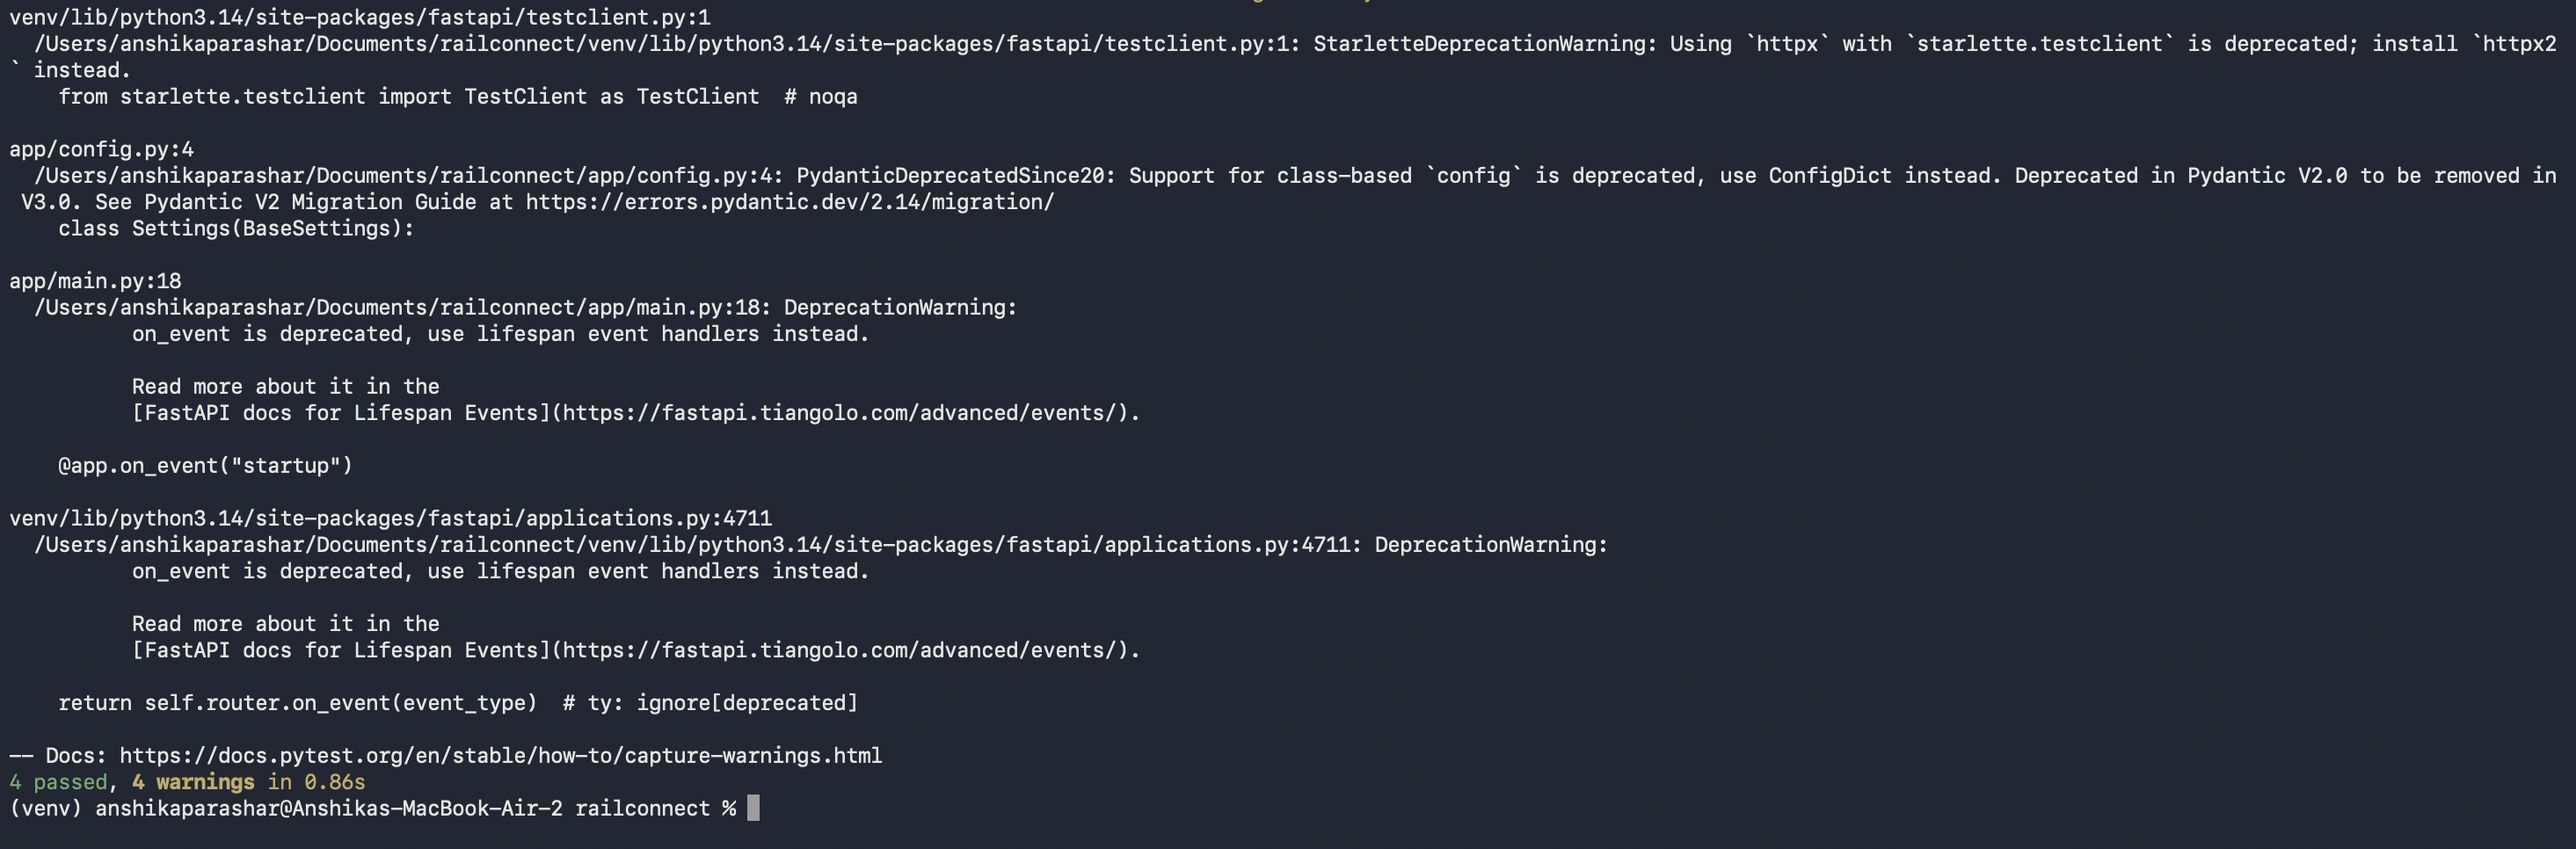
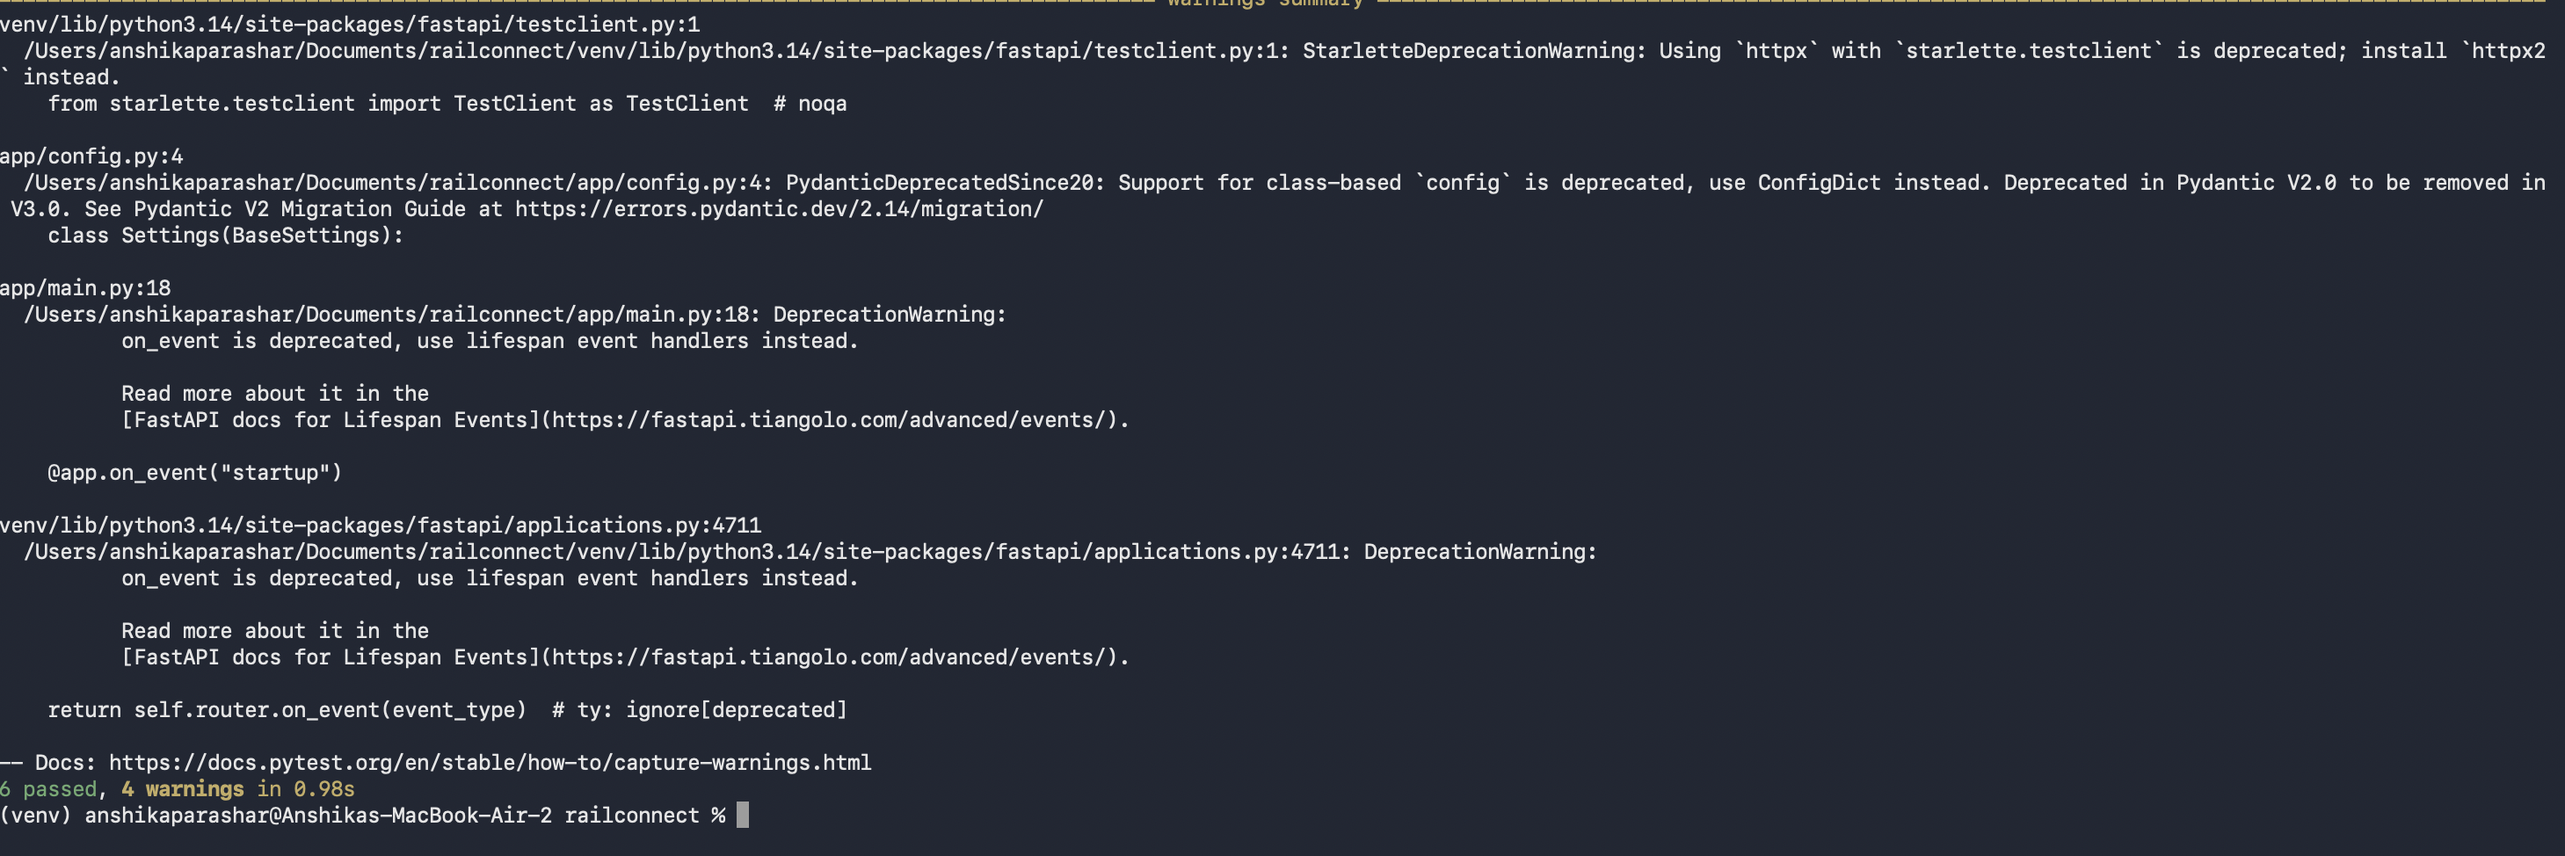
Make bookings concurrency-safe

diff --git a/app/bookings/router.py b/app/bookings/router.py
@@ -2,11 +2,12 @@ import random
 import string
 
 from fastapi import APIRouter, Depends, HTTPException
+from sqlalchemy import update
 from sqlmodel import Session, select
 
+from app.auth.dependencies import get_current_user
 from app.database import get_session
 from app.models import Booking, Train, User
-from app.auth.dependencies import get_current_user
 
 router = APIRouter(
     prefix="/bookings",
@@ -27,35 +28,29 @@ def create_booking(
     current_user: User = Depends(get_current_user),
     session: Session = Depends(get_session),
 ):
-    train = session.get(Train, train_id)
-
-    if not train:
-        raise HTTPException(
-            status_code=404,
-            detail="Train not found"
+    # Claim a seat with one conditional write. Competing updates are serialized
+    # by the database, so only a request that sees availability can claim a seat.
+    train = session.exec(
+        update(Train)
+        .where(
+            Train.id == train_id,
+            Train.is_active.is_(True),
+            Train.available_seats > 0,
         )
+        .values(available_seats=Train.available_seats - 1)
+        .returning(Train.total_seats, Train.available_seats, Train.fare)
+    ).first()
 
-    if not train.is_active:
-        raise HTTPException(
-            status_code=400,
-            detail="Train is inactive"
-        )
+    if train is None:
+        current_train = session.get(Train, train_id)
+        if current_train is None:
+            raise HTTPException(status_code=404, detail="Train not found")
+        if not current_train.is_active:
+            raise HTTPException(status_code=400, detail="Train is inactive")
+        raise HTTPException(status_code=400, detail="All seats are booked")
 
-    if train.available_seats <= 0:
-        raise HTTPException(
-            status_code=400,
-            detail="All seats are booked"
-        )
-
-    # Assign next seat number
-    seat_number = train.total_seats - train.available_seats + 1
-
-    # Reduce available seats
-    train.available_seats -= 1
-
+    seat_number = train.total_seats - train.available_seats
     pnr = generate_pnr()
-
-    # Make sure PNR is unique
     while session.exec(
         select(Booking).where(Booking.pnr == pnr)
     ).first():
@@ -64,18 +59,15 @@ def create_booking(
     booking = Booking(
         pnr=pnr,
         user_id=current_user.id,
-        train_id=train.id,
+        train_id=train_id,
         passenger_name=passenger_name,
         seat_number=seat_number,
         fare=train.fare,
         status="confirmed",
     )
-
     session.add(booking)
-    session.add(train)
     session.commit()
     session.refresh(booking)
-
     return booking
 
 
@@ -85,11 +77,8 @@ def get_my_bookings(
     session: Session = Depends(get_session),
 ):
     bookings = session.exec(
-        select(Booking).where(
-            Booking.user_id == current_user.id
-        )
+        select(Booking).where(Booking.user_id == current_user.id)
     ).all()
-
     return bookings
 
 
@@ -107,11 +96,7 @@ def get_booking(
     ).first()
 
     if not booking:
-        raise HTTPException(
-            status_code=404,
-            detail="Booking not found"
-        )
-
+        raise HTTPException(status_code=404, detail="Booking not found")
     return booking
 
 
@@ -121,38 +106,45 @@ def cancel_booking(
     current_user: User = Depends(get_current_user),
     session: Session = Depends(get_session),
 ):
-    booking = session.exec(
-        select(Booking).where(
+    cancelled = session.exec(
+        update(Booking)
+        .where(
             Booking.pnr == pnr,
-            Booking.user_id == current_user.id
+            Booking.user_id == current_user.id,
+            Booking.status == "confirmed",
         )
+        .values(status="cancelled")
+        .returning(Booking.train_id, Booking.seat_number)
     ).first()
 
-    if not booking:
-        raise HTTPException(
-            status_code=404,
-            detail="Booking not found"
+    if cancelled is None:
+        booking = session.exec(
+            select(Booking).where(
+                Booking.pnr == pnr,
+                Booking.user_id == current_user.id,
+            )
+        ).first()
+        if booking is None:
+            raise HTTPException(status_code=404, detail="Booking not found")
+        raise HTTPException(status_code=400, detail="Booking already cancelled")
+
+    restored = session.exec(
+        update(Train)
+        .where(
+            Train.id == cancelled.train_id,
+            Train.available_seats < Train.total_seats,
         )
+        .values(available_seats=Train.available_seats + 1)
+        .returning(Train.id)
+    ).first()
 
-    if booking.status == "cancelled":
-        raise HTTPException(
-            status_code=400,
-            detail="Booking already cancelled"
-        )
+    if restored is None:
+        session.rollback()
+        raise HTTPException(status_code=409, detail="Unable to restore the seat")
 
-    train = session.get(Train, booking.train_id)
-
-    if train:
-        train.available_seats += 1
-        session.add(train)
-
-    booking.status = "cancelled"
-
-    session.add(booking)
     session.commit()
-
     return {
         "message": "Booking cancelled successfully",
-        "pnr": booking.pnr,
-        "seat_number": booking.seat_number,
+        "pnr": pnr,
+        "seat_number": cancelled.seat_number,
     }

diff --git a/tests/test_bookings.py b/tests/test_bookings.py
@@ -1,0 +1,107 @@
+from concurrent.futures import ThreadPoolExecutor
+
+import pytest
+from fastapi.testclient import TestClient
+from sqlmodel import Session, SQLModel, create_engine, select
+
+from app.auth.security import create_access_token
+from app.database import get_session
+from app.main import app
+from app.models import Booking, Train, User
+
+
+@pytest.fixture
+def booking_client(tmp_path):
+    test_engine = create_engine(
+        f"sqlite:///{tmp_path / 'booking-tests.db'}",
+        connect_args={"check_same_thread": False, "timeout": 30},
+    )
+    SQLModel.metadata.create_all(test_engine)
+
+    def override_get_session():
+        with Session(test_engine) as session:
+            yield session
+
+    app.dependency_overrides[get_session] = override_get_session
+
+    with Session(test_engine) as session:
+        user = User(
+            name="Test Passenger",
+            email="passenger@example.com",
+            password_hash="unused-in-this-test",
+        )
+        train = Train(
+            train_number="TEST001",
+            train_name="Test Express",
+            source_station_id=1,
+            destination_station_id=2,
+            departure_time="09:00",
+            arrival_time="12:00",
+            journey_date="2030-01-01",
+            fare=100,
+            total_seats=1,
+            available_seats=1,
+        )
+        session.add(user)
+        session.add(train)
+        session.commit()
+        session.refresh(user)
+        user_id = user.id
+        train_id = train.id
+
+    token = create_access_token(user_id)
+    with TestClient(app) as client:
+        yield client, test_engine, train_id, {"Authorization": f"Bearer {token}"}
+
+    app.dependency_overrides.pop(get_session, None)
+    test_engine.dispose()
+
+
+def test_concurrent_bookings_cannot_claim_the_same_last_seat(booking_client):
+    client, test_engine, train_id, headers = booking_client
+
+    def request_booking(_):
+        return client.post(
+            "/bookings/",
+            params={"train_id": train_id, "passenger_name": "Test Passenger"},
+            headers=headers,
+        )
+
+    with ThreadPoolExecutor(max_workers=8) as pool:
+        responses = list(pool.map(request_booking, range(8)))
+
+    assert sum(response.status_code == 200 for response in responses) == 1
+    assert sum(response.status_code == 400 for response in responses) == 7
+
+    with Session(test_engine) as session:
+        train = session.get(Train, train_id)
+        bookings = session.exec(select(Booking)).all()
+        assert train.available_seats == 0
+        assert len(bookings) == 1
+        assert bookings[0].seat_number == 1
+
+
+def test_concurrent_cancellations_release_a_seat_only_once(booking_client):
+    client, test_engine, train_id, headers = booking_client
+    response = client.post(
+        "/bookings/",
+        params={"train_id": train_id, "passenger_name": "Test Passenger"},
+        headers=headers,
+    )
+    assert response.status_code == 200
+    pnr = response.json()["pnr"]
+
+    def request_cancellation(_):
+        return client.delete(f"/bookings/{pnr}", headers=headers)
+
+    with ThreadPoolExecutor(max_workers=8) as pool:
+        responses = list(pool.map(request_cancellation, range(8)))
+
+    assert sum(response.status_code == 200 for response in responses) == 1
+    assert sum(response.status_code == 400 for response in responses) == 7
+
+    with Session(test_engine) as session:
+        train = session.get(Train, train_id)
+        booking = session.exec(select(Booking)).one()
+        assert train.available_seats == 1
+        assert booking.status == "cancelled"

diff --git a/app/database.py b/app/database.py
@@ -4,7 +4,7 @@ from app.config import settings
 
 engine = create_engine(
     settings.DATABASE_URL,
-    connect_args={"check_same_thread": False},
+    connect_args={"check_same_thread": False, "timeout": 30},
 )
 
 

diff --git a/README.md b/README.md
@@ -95,4 +95,4 @@ The following screenshots show the main RailConnect API workflows in Swagger UI:
 
 ### Tests
 
-![Pytest results: 4 passed](screenshots/09-tests.png)
+![Pytest results: 6 passed](screenshots/09-tests.png)
